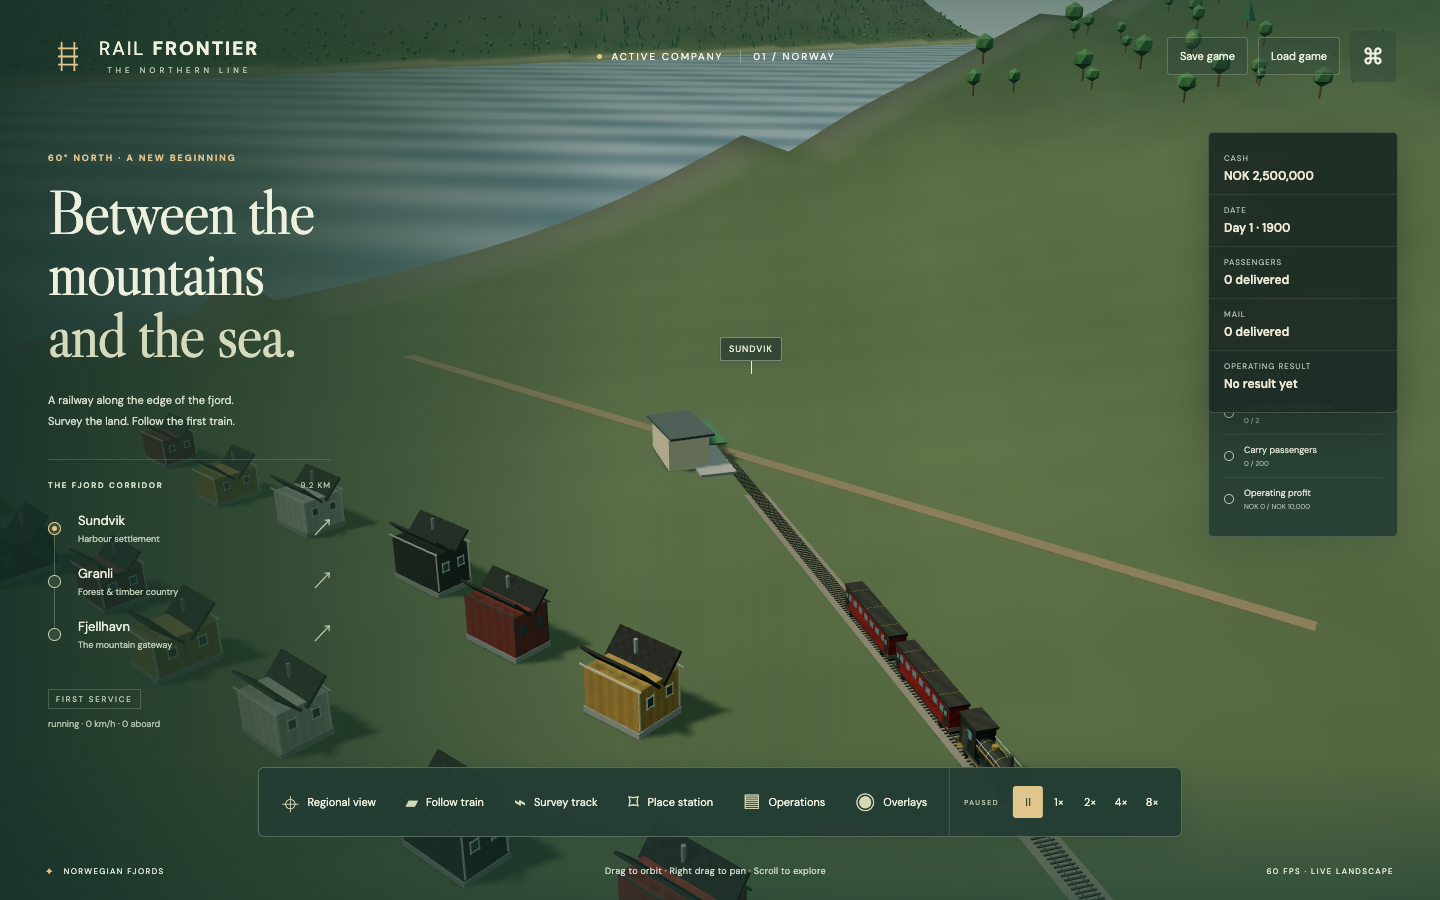
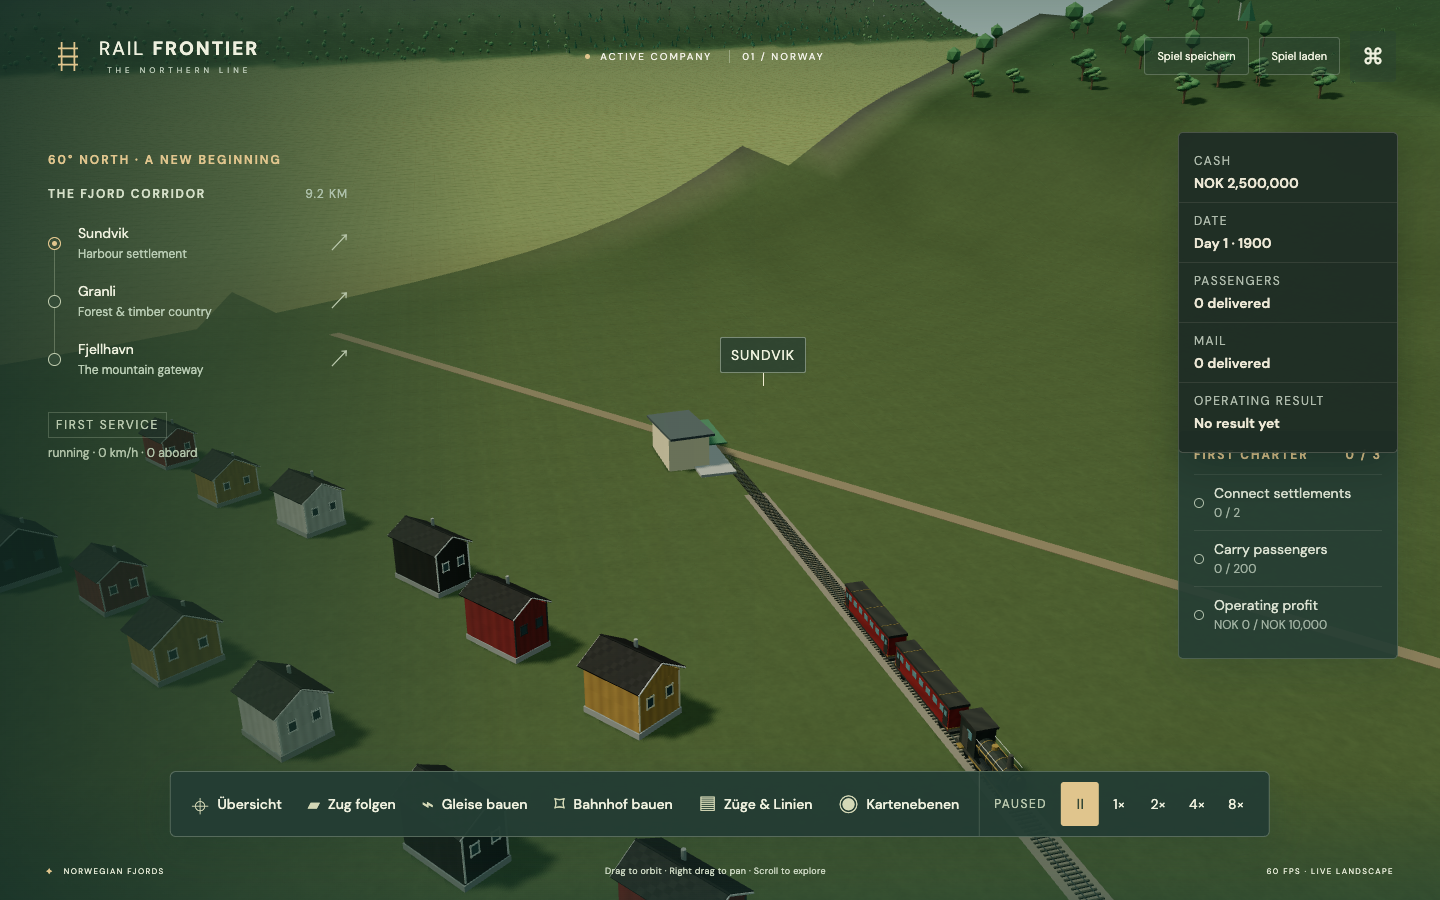
docs: refresh README screenshots

diff --git a/tools/capture-readme-screenshots.ts b/tools/capture-readme-screenshots.ts
@@ -34,13 +34,33 @@ try{
   await capture('train-service.png','train');
   await capture('sundvik-station.png','station');
 
-  await page.getByRole('button',{name:'Open main menu'}).click();
+  await page.evaluate(()=>window.__railProbe.cameraPreset('regional'));
+  await page.locator('#plan').click();
+  await page.getByLabel('Corridor').selectOption('bridge');
+  await expectVisible(page,'#engineering-review');
+  await page.locator('#engineering-profile').scrollIntoViewIfNeeded();
+  await settle(page);
+  await page.screenshot({path:resolve(outputDirectory,'alignment-engineering.png'),fullPage:true});
+  await page.getByRole('button',{name:'Close alignment study'}).click();
+
+  await page.locator('#open-menu').click();
   await page.locator('[data-menu-view="settings"]').click();
   await settle(page);
   await page.screenshot({path:resolve(outputDirectory,'settings-menu.png'),fullPage:true});
 
+  await page.goto(`${baseUrl}/?skip-menu=1&world=arizona`,{waitUntil:'networkidle'});
+  await page.waitForFunction(()=>window.__railProbe?.ready===true);
+  await page.evaluate(()=>{window.__railProbe.setSpeed(0);window.__railProbe.cameraPreset('street');});
+  await settle(page);
+  await page.screenshot({path:resolve(outputDirectory,'arizona-street.png'),fullPage:true});
+  await page.evaluate(()=>window.__railProbe.cameraPreset('canyon'));
+  await settle(page);
+  await page.screenshot({path:resolve(outputDirectory,'arizona-canyon.png'),fullPage:true});
+
   if(errors.length>0)throw new Error(`Browser reported errors:\n${errors.join('\n')}`);
-  console.log(`Captured four README screenshots in ${outputDirectory}`);
+  console.log(`Captured seven README screenshots in ${outputDirectory}`);
 }finally{
   await browser.close();
 }
+
+async function expectVisible(page:Page,selector:string):Promise<void>{await page.locator(selector).waitFor({state:'visible'});}

diff --git a/README.md b/README.md
@@ -8,19 +8,23 @@ Astra and Sol refer to Codex models. The actual rendering engine is **Three.js**
 
 ## Current build
 
-The Norway vertical slice is playable now. It has the complete build → station → consist → route → delivery → revenue loop, passenger, mail and timber traffic, town growth, objectives, save archives and safe single-track dispatch. Corrected roofs, settlement-scale opening cameras, natural terrain materials, camera-aware vegetation and Norway V3 landmark cliffs/waterfall have landed. Arizona V2 geology and original circa-1900 architecture are complete. Semantic construction terrain, retaining walls and exact bridge/tunnel transitions are implemented; the engineering profile, route alternatives and first-use tutorial remain in the active rework. Deployment, supported browser/device checks and permanent released-save upgrade fixtures follow. Arizona and Great River are later content expansions and do not block a first Norway release.
+The Norway vertical slice is playable now. It has the complete build → station → consist → route → delivery → revenue loop, passenger, mail and timber traffic, town growth, objectives, save archives and safe single-track dispatch. Corrected roofs, settlement-scale opening cameras, natural terrain materials, camera-aware vegetation and Norway V3 landmark cliffs/waterfall have landed. Arizona V2 geology and original circa-1900 architecture are complete. Semantic construction terrain, retaining walls, exact bridge/tunnel transitions, the engineering profile and worker-based route alternatives are implemented. The guided first-service tutorial is the next active milestone. Deployment, supported browser/device checks and permanent released-save upgrade fixtures follow. Arizona and Great River are later content expansions and do not block a first Norway release.
 
 An isolated Arizona terrain and scenery study is also available at `http://127.0.0.1:5173/?skip-menu=1&world=arizona`. Its current heightfield previews a 24 km basin with irregular stepped mesas, broken escarpments, talus and connected meandering canyon branches, plus desert materials and habitat-based procedural vegetation, without the Norway HUD. Ten original Blender building types replace the former boxes across three composed settlements, with gabled, hipped, adobe, false-front and railway/industrial forms. Arizona gameplay, US rolling stock and campaign selection follow later in EXP-004/005.
 
-**2026-09-18 implementation update:** CON-01–04 deliver station-first placement, continuous horizontal/vertical alignment planning, deterministic terrain earthworks, quoted station pads and structure presentation derived from saved construction spans. GFX-R03 replaces periodic terrain waves with original material atlases. GFX-R04 retains all 28,000 Norway trees and groups Arizona vegetation by habitat. GFX-R05 makes Norway V3 the default for new companies, adding three authoritative cliff clusters and a connected animated waterfall. GFX-R06 makes Arizona V2 the current terrain study with distinct basin, mesa, plateau, escarpment and drainage forms. GFX-R07 adds 20 Arizona architecture GLBs, nine shared PBR maps, organized streets and 180 deterministic building plots.
+**2026-09-20 implementation update:** CON-01–06 deliver station-first placement, continuous horizontal/vertical alignment planning, deterministic terrain earthworks, quoted station pads, engineering review and terrain-aware corridor alternatives. The completed route planner searches a capped coarse-to-fine heading/elevation lattice in a cancellable Web Worker, rejects stale results and revalidates every candidate against live authoritative terrain. GFX-R03–07 provide natural terrain materials, camera-aware vegetation, Norway V3 cliffs/waterfall, Arizona V2 geology and 20 original Arizona architecture GLBs across 180 deterministic building plots.
 
-Runtime checkpoint `124d4a2` passes 149 active Node tests, focused Norway and Arizona landform/material/architecture browser checks, semantic construction, repeated current-scene replacement and full passenger/mail/save browser journeys, TypeScript, asset validation and the test build. Pre-release Norway and Arizona V1 content has been deleted. Schema 8 rebuilds persisted station pads and alignment earthworks deterministically over the immutable base terrain; moderate slopes receive a visible cut/fill quote and level built pad. Bridge modules, abutments, tunnel portals and retaining walls use those saved results and suppress duplicate transitions across curve joins. The alignment review now plots terrain against rail, marks construction types, reports grade/radius and exact cost totals, and links profile hover to the 3D survey. The focused construction run keeps simulation and rendered triangles within 0.001 m.
+Runtime checkpoint `8926412` passes 158 active Node tests, focused Norway and Arizona landform/material/architecture browser checks, semantic construction, repeated current-scene replacement and full passenger/mail/save browser journeys, TypeScript and the test build. Pre-release Norway and Arizona V1 content has been deleted. Schema 8 rebuilds persisted station pads and alignment earthworks deterministically over the immutable base terrain; moderate slopes receive a visible cut/fill quote and level built pad. Bridge modules, abutments, tunnel portals and retaining walls use those saved results and suppress duplicate transitions across curve joins. The alignment review plots terrain against rail, marks construction types, reports grade/radius and exact cost totals, and links profile hover to the 3D survey. The focused construction run keeps simulation and rendered triangles within 0.001 m.
 
 | Norwegian fjord landscape and live HUD | Steam passenger service |
 | --- | --- |
 | ![A regional view over the Norwegian fjord landscape with the game HUD](docs/screenshots/norway-landscape-hud.png) | ![A steam locomotive and passenger coaches on the Northern Line](docs/screenshots/train-service.png) |
 | Sundvik station and timber village | Landscape and motion settings |
 | ![Sundvik station, train and Norwegian timber houses](docs/screenshots/sundvik-station.png) | ![Rail Frontier landscape and motion settings menu](docs/screenshots/settings-menu.png) |
+| Engineering review and build quote | Arizona V2 settlement street |
+| ![Rail Frontier alignment planner with engineering profile, construction types and quote](docs/screenshots/alignment-engineering.png) | ![Arizona V2 period settlement with varied railway, timber, brick and adobe buildings](docs/screenshots/arizona-street.png) |
+| Arizona V2 canyon landscape | |
+| ![Arizona V2 canyon, sandstone terrain and desert vegetation](docs/screenshots/arizona-canyon.png) | |
 
 ## Run
 
